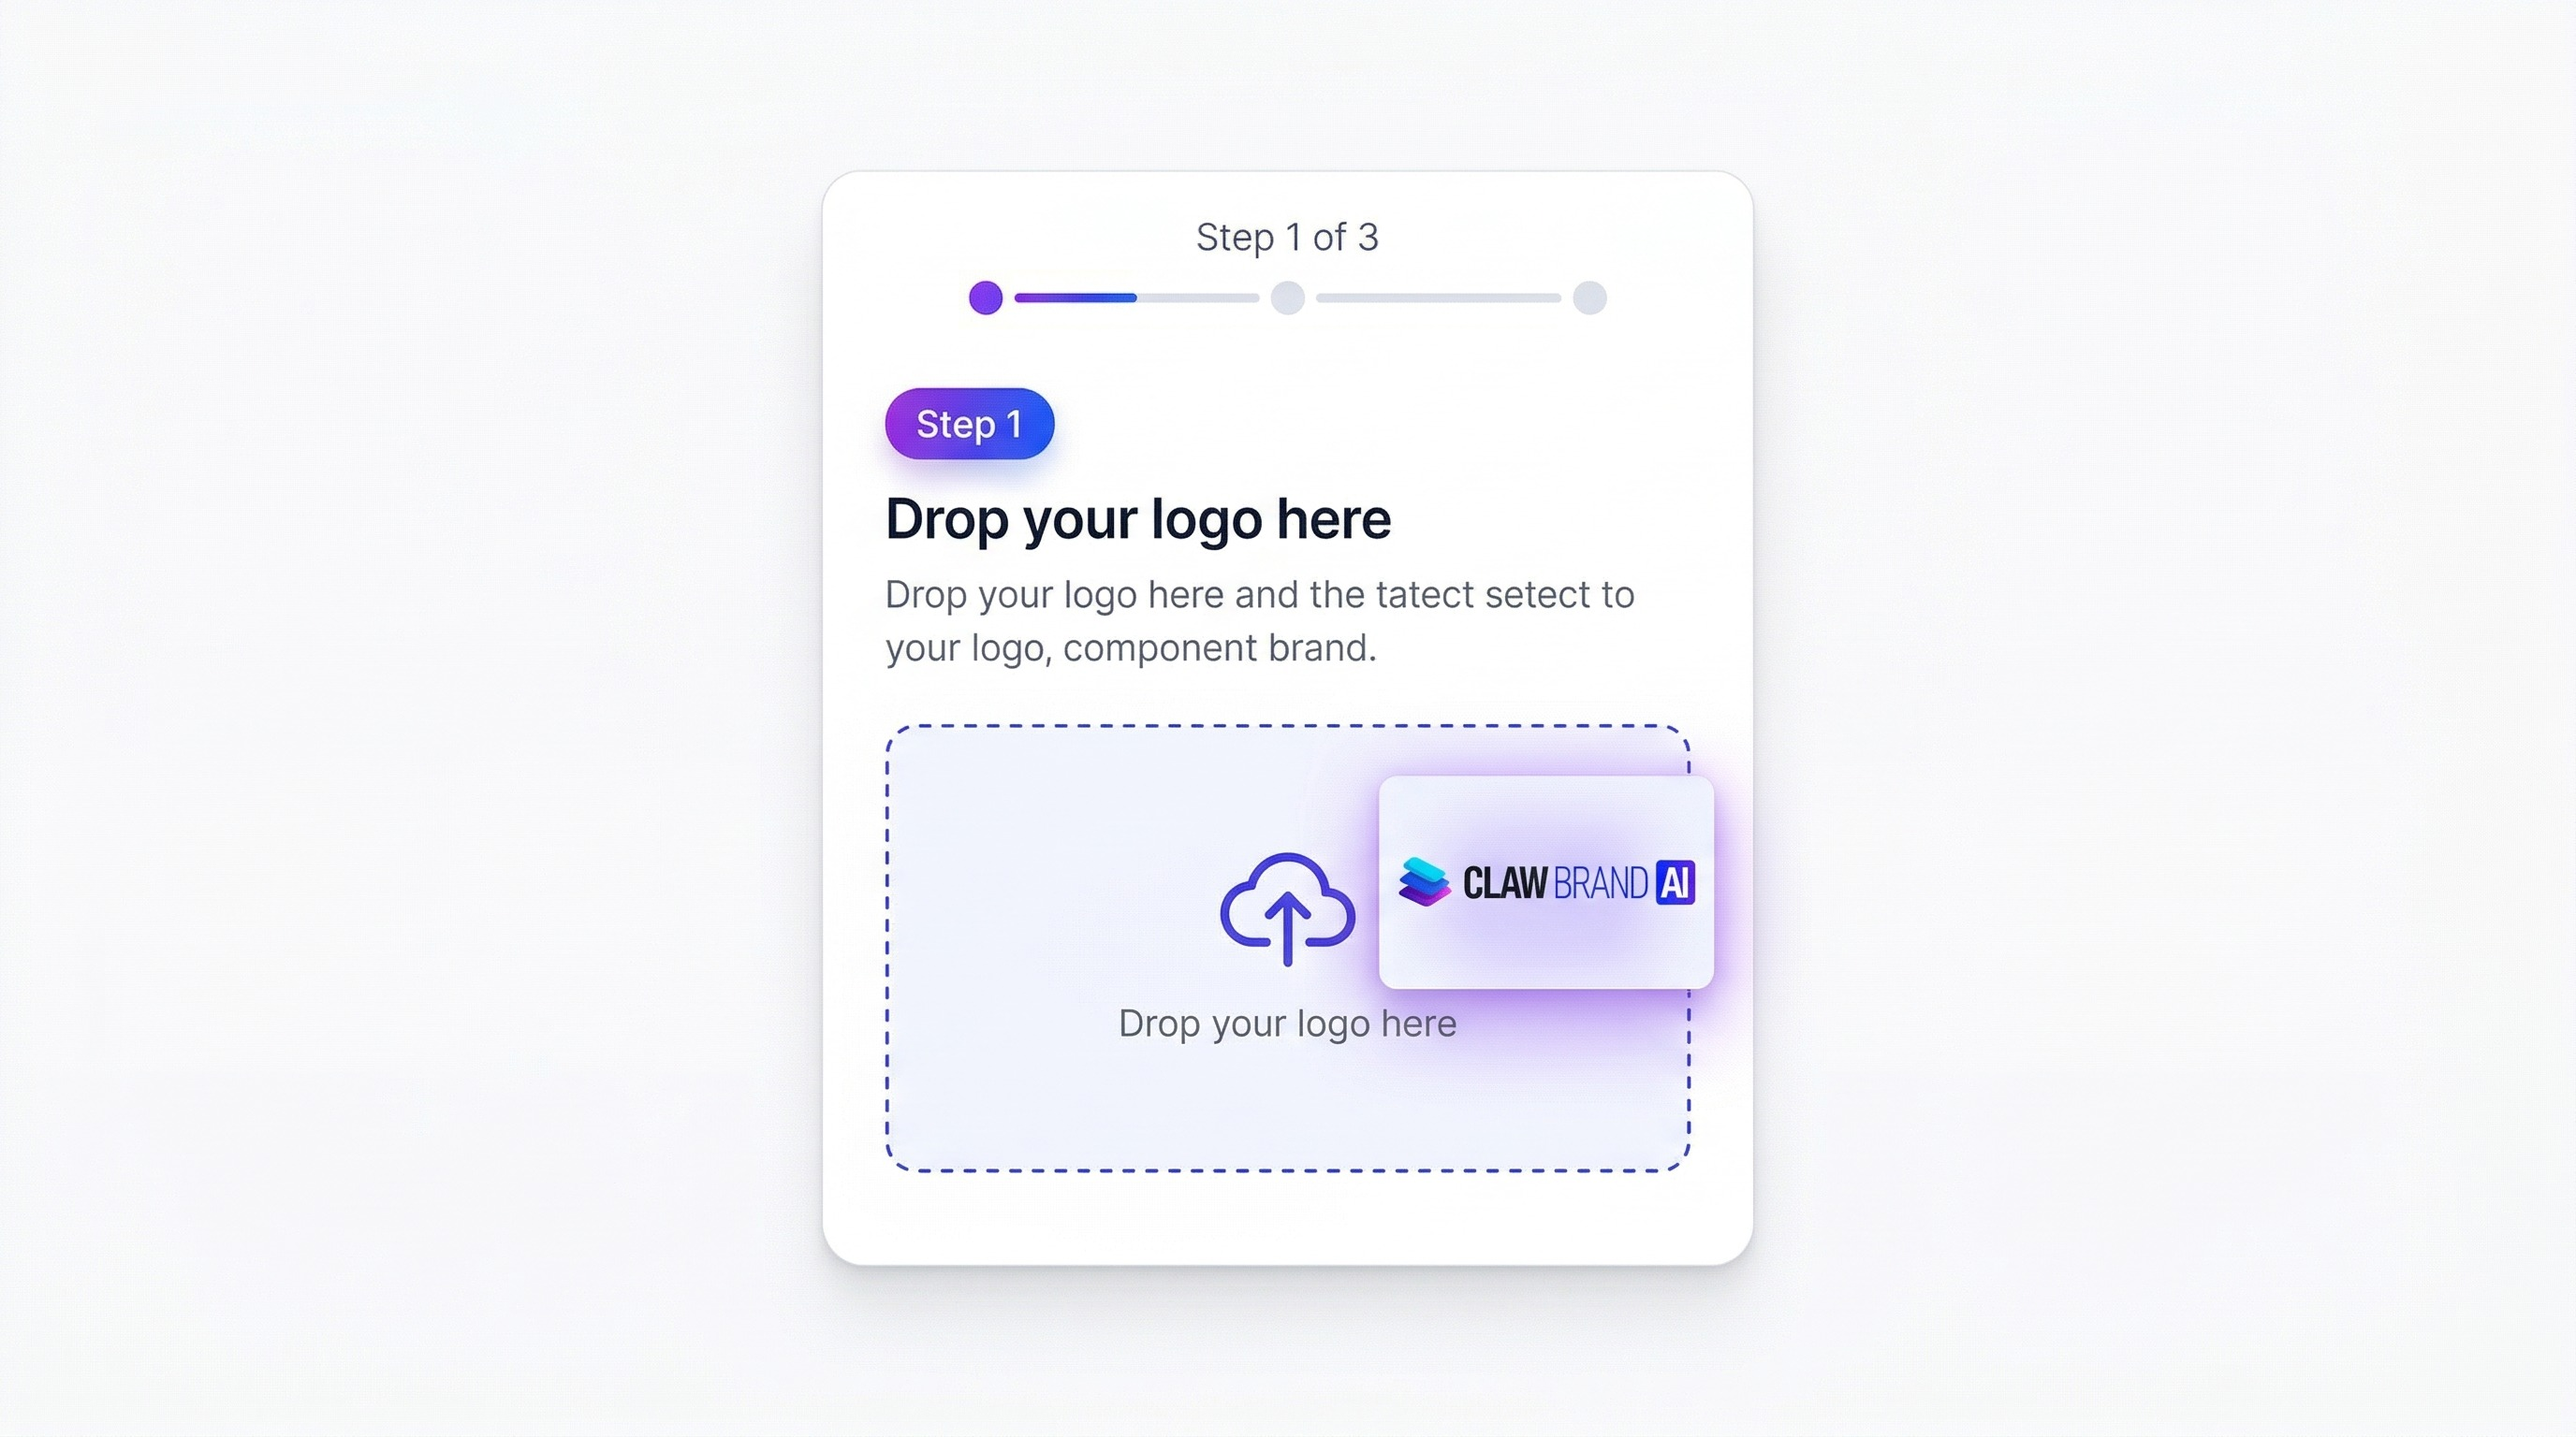
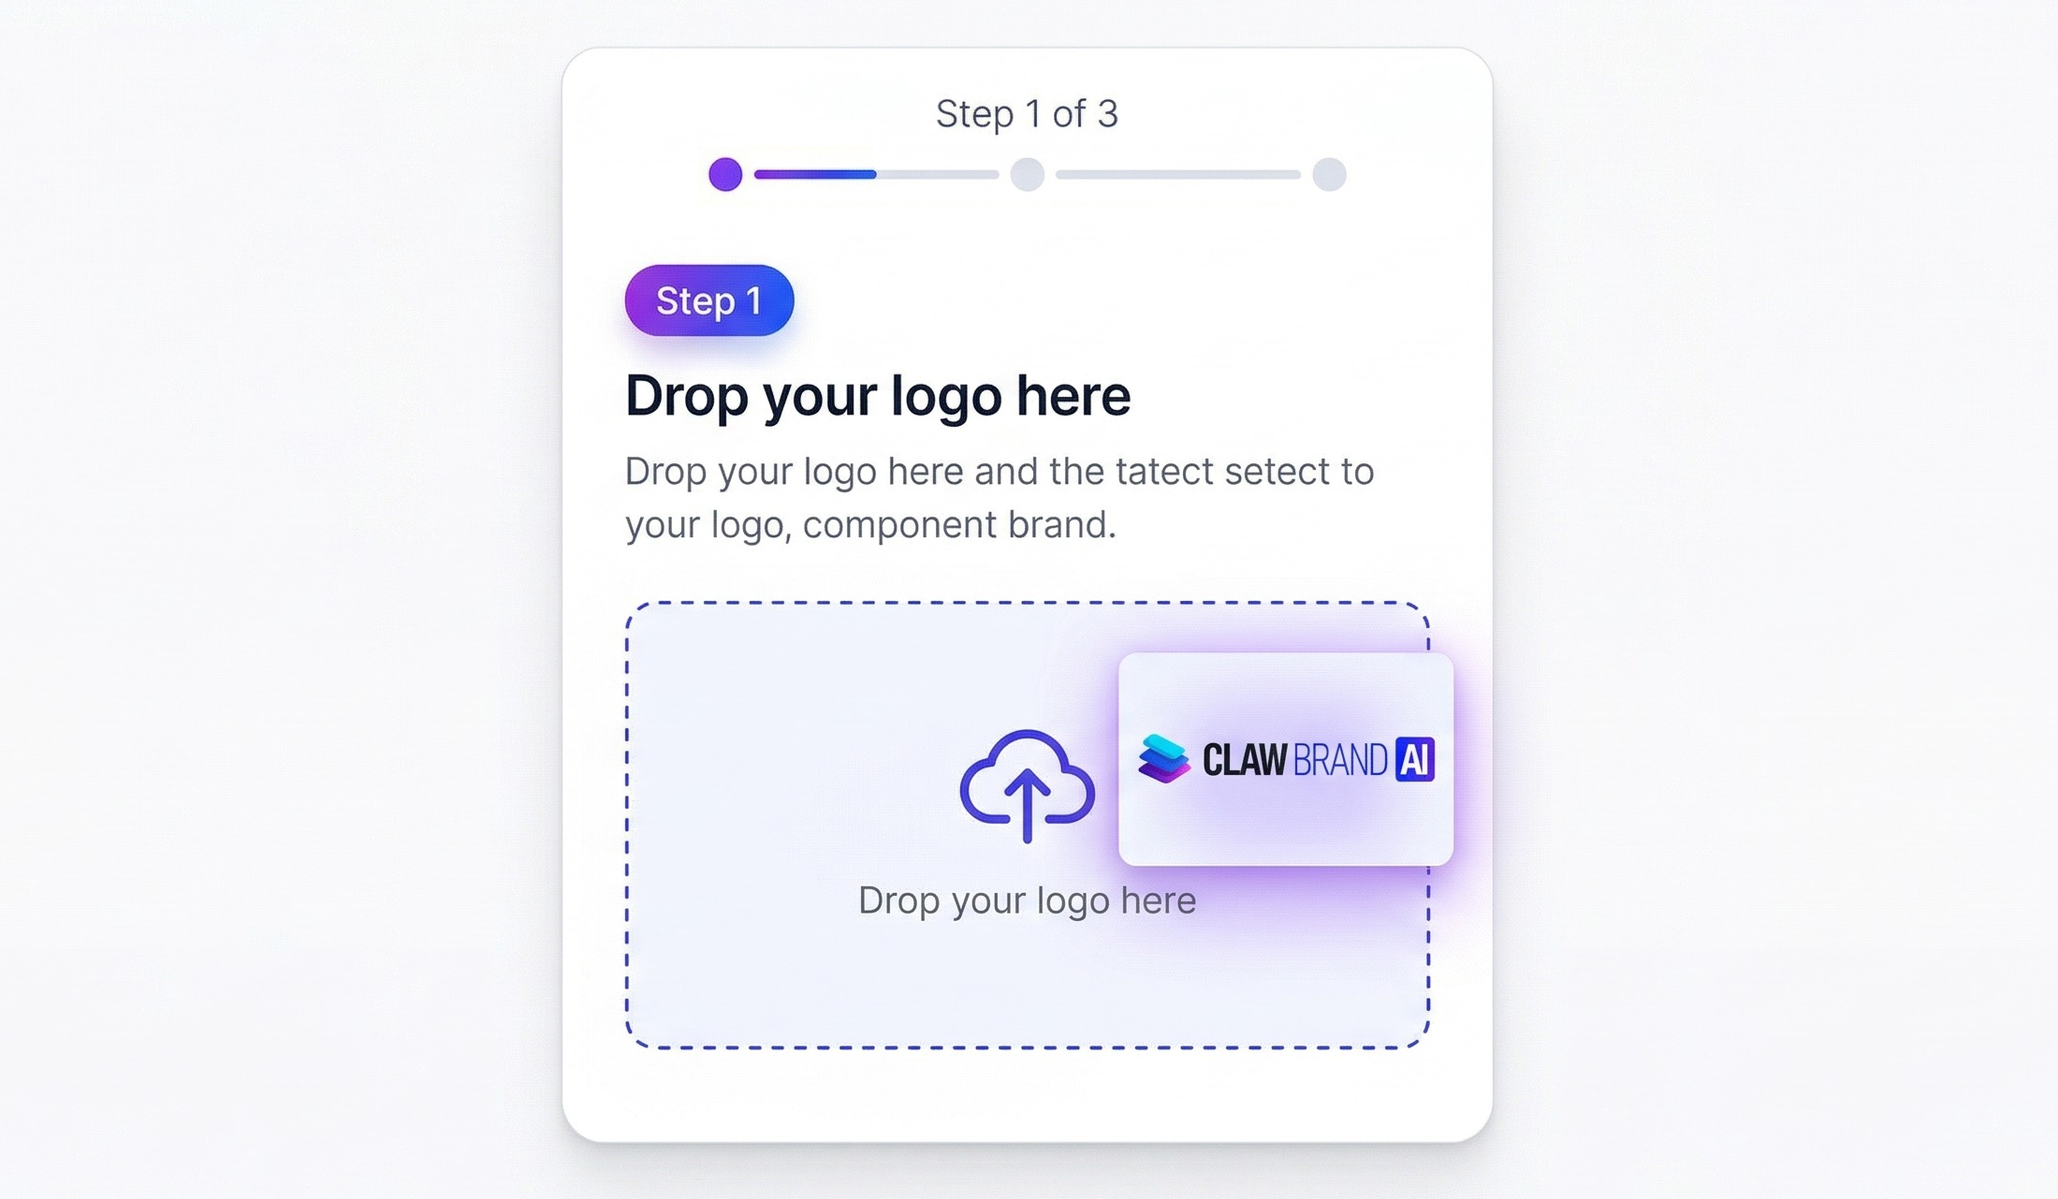
edited special page

diff --git a/special/index.html b/special/index.html
@@ -456,7 +456,7 @@ height="0" width="0" style="display:none;visibility:hidden"></iframe></noscript>
       </ul>
     </div>
     <div class="feature_split_image">
-      <img class="feature_split_photo" src="../mockups/creativio_hoodie-on-modelpng.jpg" alt="AI mockup generation in the ClawBrand interface" loading="lazy" decoding="async" />
+      <img class="feature_split_photo" src="../special/images/stoppaying.jpg" alt="AI mockup generation in the ClawBrand interface" loading="lazy" decoding="async" />
     </div>
   </div>
 </div>
@@ -511,7 +511,7 @@ height="0" width="0" style="display:none;visibility:hidden"></iframe></noscript>
 <div class="container" style="padding-top:80px;padding-bottom:80px">
   <div class="feature_split flipped">
     <div class="feature_split_image">
-      <img class="feature_split_photo" src="../mockups/book-open-spread.jpg" alt="Saved mockup library and search" loading="lazy" decoding="async" />
+      <img class="feature_split_photo" src="../special/images/portfolio.jpg" alt="Saved mockup library and search" loading="lazy" decoding="async" />
     </div>
     <div class="feature_split_text">
       <h3>Saved Mockup Library</h3>

diff --git a/special/styles.css b/special/styles.css
@@ -1152,11 +1152,11 @@ a.white-bg {
   border-bottom: 1px solid #e5e7eb;
 }
 .how_step_screenshot img {
-  width: 90%;
+  width: 100%;
   height: 250px;
   object-fit: cover;
   display: block;
-  margin: 20px auto;
+  margin: 0px auto;
   border-top-left-radius: 25px;
   border-top-right-radius: 25px;
 }
@@ -1213,7 +1213,7 @@ a.white-bg {
   flex: 1;
   display: flex;
   position: relative;
-  background: #f6f6f7;
+  background: transparent;
   border-radius: 50px;
   padding: 28px 36px;
   text-align: center;
@@ -1222,15 +1222,15 @@ a.white-bg {
   width: 100%;
   min-height: 320px;
   overflow: hidden;
-  background-image: url('../partners/images/cornerpattern.png');
+  
   background-position: top right;
   background-repeat: no-repeat;
   background-size: 3490px;
-  border: 1px solid #c0c0c0;
+  border: none;
 }
 .feature_split_photo {
   width: 100%;
-  max-height: 440px;
+  
   height: auto;
   object-fit: cover;
   border-radius: 24px;
